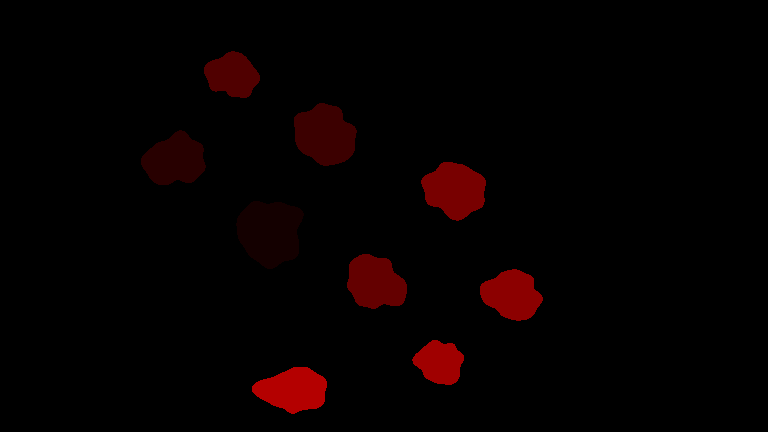
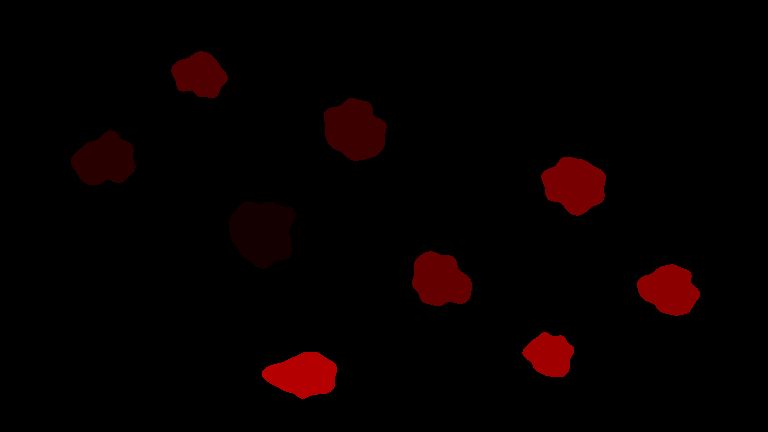
P2: isole del cap. 1 distese in orizzontale, carta ridipinta; purezza solo su src/mondo/carriera
La vista intera del capitolo era più alta che larga e a Pixel 6 restava piccola.

Claude-Session: https://claude.ai/code/session_01JsJehAquL1np26QwDp9MF5

diff --git a/src/contenuti/capitolo-1.ts b/src/contenuti/capitolo-1.ts
@@ -3,61 +3,62 @@
 // scontri, pirati). Le ROTTE e gli ID non si cambiano senza il Lead P2 (le controlla tests/mondo/capitolo-1.test.ts).
 // Semi: scelti col generatore di oggi da scripts/mappe/isole/scegli-semi.ts (studio-v2/livelli-cap1.md §3),
 // ricontrollati da tests/mappe/isole-cap1.test.ts.
-// Posizioni su mappa logica 3072×1728: Costa del Teschio a nord-ovest, Lagune a sud-est, Cala Pappagallo sul bordo sud.
+// Posizioni su mappa logica 3072×1728, distese in orizzontale per lo schermo del telefono (~2,2:1): Costa del
+// Teschio a ovest, Lagune a est, Cala Pappagallo sul bordo sud.
 import type { DefCapitolo, DefIsola } from '../core/carriera';
 
 /** Cala Pappagallo: isola del Prologo. Sta sulla mappa (bordo sud) ma non fa parte del capitolo né delle rotte. */
 export const CALA_PAPPAGALLO = {
   id: 'cala',
   nome: 'calaPappagallo',
-  pos: { x: 1180, y: 1560 },
+  pos: { x: 1220, y: 1500 },
   raggio: 90,
 } as const;
 
 const isole: DefIsola[] = [
   {
     id: '1A', nome: 'portoTeschio', regione: 'costa', adiacenti: ['1B', '1C', '1E'],
-    pos: { x: 1080, y: 930 }, raggio: 110, bioma: 'porto', mappa: { seme: 2991 }, trucco: 'palafitte',
+    pos: { x: 1050, y: 930 }, raggio: 110, bioma: 'porto', mappa: { seme: 2991 }, trucco: 'palafitte',
     padroneIniziale: 'giocatore', piratiIniziali: 4, scontro: null, premi: [],
   },
   {
     id: '1B', nome: 'baiaDeiCorvi', regione: 'costa', adiacenti: ['1A', '1C', '1D'],
-    pos: { x: 700, y: 640 }, raggio: 90, bioma: 'porto', mappa: { seme: 467 }, trucco: 'gru',
+    pos: { x: 420, y: 640 }, raggio: 90, bioma: 'porto', mappa: { seme: 467 }, trucco: 'gru',
     padroneIniziale: 'giocatore', piratiIniziali: 2, scontro: null, premi: [],
   },
   {
     id: '1C', nome: 'forteRampino', regione: 'costa', adiacenti: ['1A', '1B', '1D', '1F'],
-    pos: { x: 1300, y: 540 }, raggio: 100, bioma: 'porto', mappa: { seme: 650 }, trucco: 'bastione',
+    pos: { x: 1420, y: 520 }, raggio: 100, bioma: 'porto', mappa: { seme: 650 }, trucco: 'bastione',
     padroneIniziale: 'marina', piratiIniziali: 2, scontro: { tipo: 'assalto' },
     premi: [{ t: 'arma', arma: 'rampino' }, { t: 'mossa', mossa: 'dondolo' }],
   },
   {
     id: '1D', nome: 'scoglioDellaVedetta', regione: 'costa', adiacenti: ['1B', '1C'],
-    pos: { x: 930, y: 300 }, raggio: 75, bioma: 'isola', mappa: { seme: 2002 }, trucco: 'torre',
+    pos: { x: 800, y: 300 }, raggio: 75, bioma: 'isola', mappa: { seme: 2002 }, trucco: 'torre',
     padroneIniziale: 'marina', piratiIniziali: 1, scontro: { tipo: 'bandiera' },
     premi: [{ t: 'mossa', mossa: 'saltoAppoggio' }],
   },
   {
     id: '1E', nome: 'scogliDelRum', regione: 'lagune', adiacenti: ['1A', '1F', '1G', '1H'],
-    pos: { x: 1500, y: 1130 }, raggio: 90, bioma: 'scogliera', mappa: { seme: 1103 }, trucco: 'archi',
+    pos: { x: 1760, y: 1120 }, raggio: 90, bioma: 'scogliera', mappa: { seme: 1103 }, trucco: 'archi',
     padroneIniziale: 'marina', piratiIniziali: 2, scontro: { tipo: 'assalto' },
     premi: [{ t: 'recluta', nome: 'Spugna', aspetto: 'bandanaVerde' }],
   },
   {
     id: '1F', nome: 'lagunaNera', regione: 'lagune', adiacenti: ['1C', '1E', '1G'],
-    pos: { x: 1820, y: 760 }, raggio: 95, bioma: 'grotta', mappa: { seme: 334 }, trucco: 'stalattiti',
+    pos: { x: 2300, y: 740 }, raggio: 95, bioma: 'grotta', mappa: { seme: 334 }, trucco: 'stalattiti',
     padroneIniziale: 'marina', piratiIniziali: 2, scontro: { tipo: 'assalto', notte: true },
     premi: [{ t: 'arma', arma: 'ancora' }, { t: 'mossa', mossa: 'scivolata' }],
   },
   {
     id: '1G', nome: 'seccaDelBarile', regione: 'lagune', adiacenti: ['1E', '1F', '1H'],
-    pos: { x: 2050, y: 1180 }, raggio: 85, bioma: 'isola', mappa: { seme: 1886 }, trucco: 'dune',
+    pos: { x: 2680, y: 1160 }, raggio: 85, bioma: 'isola', mappa: { seme: 1886 }, trucco: 'dune',
     padroneIniziale: 'marina', piratiIniziali: 1, scontro: { tipo: 'assalto', bariliExtra: 5 },
     premi: [{ t: 'recluta', nome: 'Bonaccia', aspetto: 'barbaRossa' }],
   },
   {
     id: '1H', nome: 'isolottoDelleCozze', regione: 'lagune', adiacenti: ['1E', '1G'],
-    pos: { x: 1760, y: 1450 }, raggio: 70, bioma: 'isola', mappa: { seme: 165 }, trucco: 'palmaPonte',
+    pos: { x: 2200, y: 1420 }, raggio: 70, bioma: 'isola', mappa: { seme: 165 }, trucco: 'palmaPonte',
     padroneIniziale: 'marina', piratiIniziali: 1, scontro: { tipo: 'duello', capo: 'Rigidini' },
     premi: [{ t: 'mossa', mossa: 'tuffo' }, { t: 'bandiera', id: 'teschioFumante' }],
   },

diff --git a/tests/mondo-scena/scena-mondo.test.ts b/tests/mondo-scena/scena-mondo.test.ts
@@ -18,7 +18,7 @@ function stato(p: Partial<StatoCarriera> = {}): StatoCarriera {
   for (const i of CAPITOLO_1.isole) isole[i.id] = { padrone: i.padroneIniziale, pirati: i.piratiIniziali, presa: i.padroneIniziale === 'giocatore' };
   return {
     versione: 1, capitolo: 1, round: 1, fase: 'rinforzi', isole, rinforzi: 0, attacco: null, armi: [], mosse: [], reclute: [],
-    bandiere: [], stelle: {}, sceneViste: [], completo: false, piratiPersi: 0, battaglieGiocate: 0, ...p,
+    bandiere: [], stelle: {}, sceneViste: [], completo: false, usate: [], conquisteRound: [], piratiPersi: 0, perditeSfide: 0, battaglieGiocate: 0, ...p,
   };
 }
 
@@ -79,8 +79,8 @@ describe('camera del mondo', () => {
 
 describe('tocchi sulle isole', () => {
   it('senza immagine a indici: dentro il raggio si prende l\'isola, in mare aperto niente', () => {
-    expect(isolaInPunto({ x: 1300, y: 540 }, mappa, 0.5, null)).toBe('1C');
-    expect(isolaInPunto({ x: 2600, y: 300 }, mappa, 0.5, null)).toBeNull();
+    expect(isolaInPunto(CAPITOLO_1.isole.find((i) => i.id === '1C')!.pos, mappa, 0.5, null)).toBe('1C');
+    expect(isolaInPunto({ x: 2900, y: 150 }, mappa, 0.5, null)).toBeNull();
   });
 
   it('a vista lontana il tocco vale almeno 28 px CSS dal centro (diametro ≥ 56 px)', () => {

diff --git a/tests/qa/purezza.test.ts b/tests/qa/purezza.test.ts
@@ -70,7 +70,8 @@ function violazioni(cartelle: string[], divieti: Divieto[]): string[] {
 const SIM = ['src/battaglia/sim'];
 const GEN = ['src/battaglia/gen'];
 const IA = ['src/battaglia/ia'];
-const PURE = ['src/core', ...SIM, ...GEN, ...IA, 'src/mondo', 'src/contenuti'];
+// src/mondo/scena è la scena Pixi della mappa del mondo (P2): non è pura. Pure sono le regole della carriera.
+const PURE = ['src/core', ...SIM, ...GEN, ...IA, 'src/mondo/carriera', 'src/contenuti'];
 
 describe('QA · determinismo della battaglia', () => {
   it('sim, generatore e core non usano casualità o tempo reale', () => {
